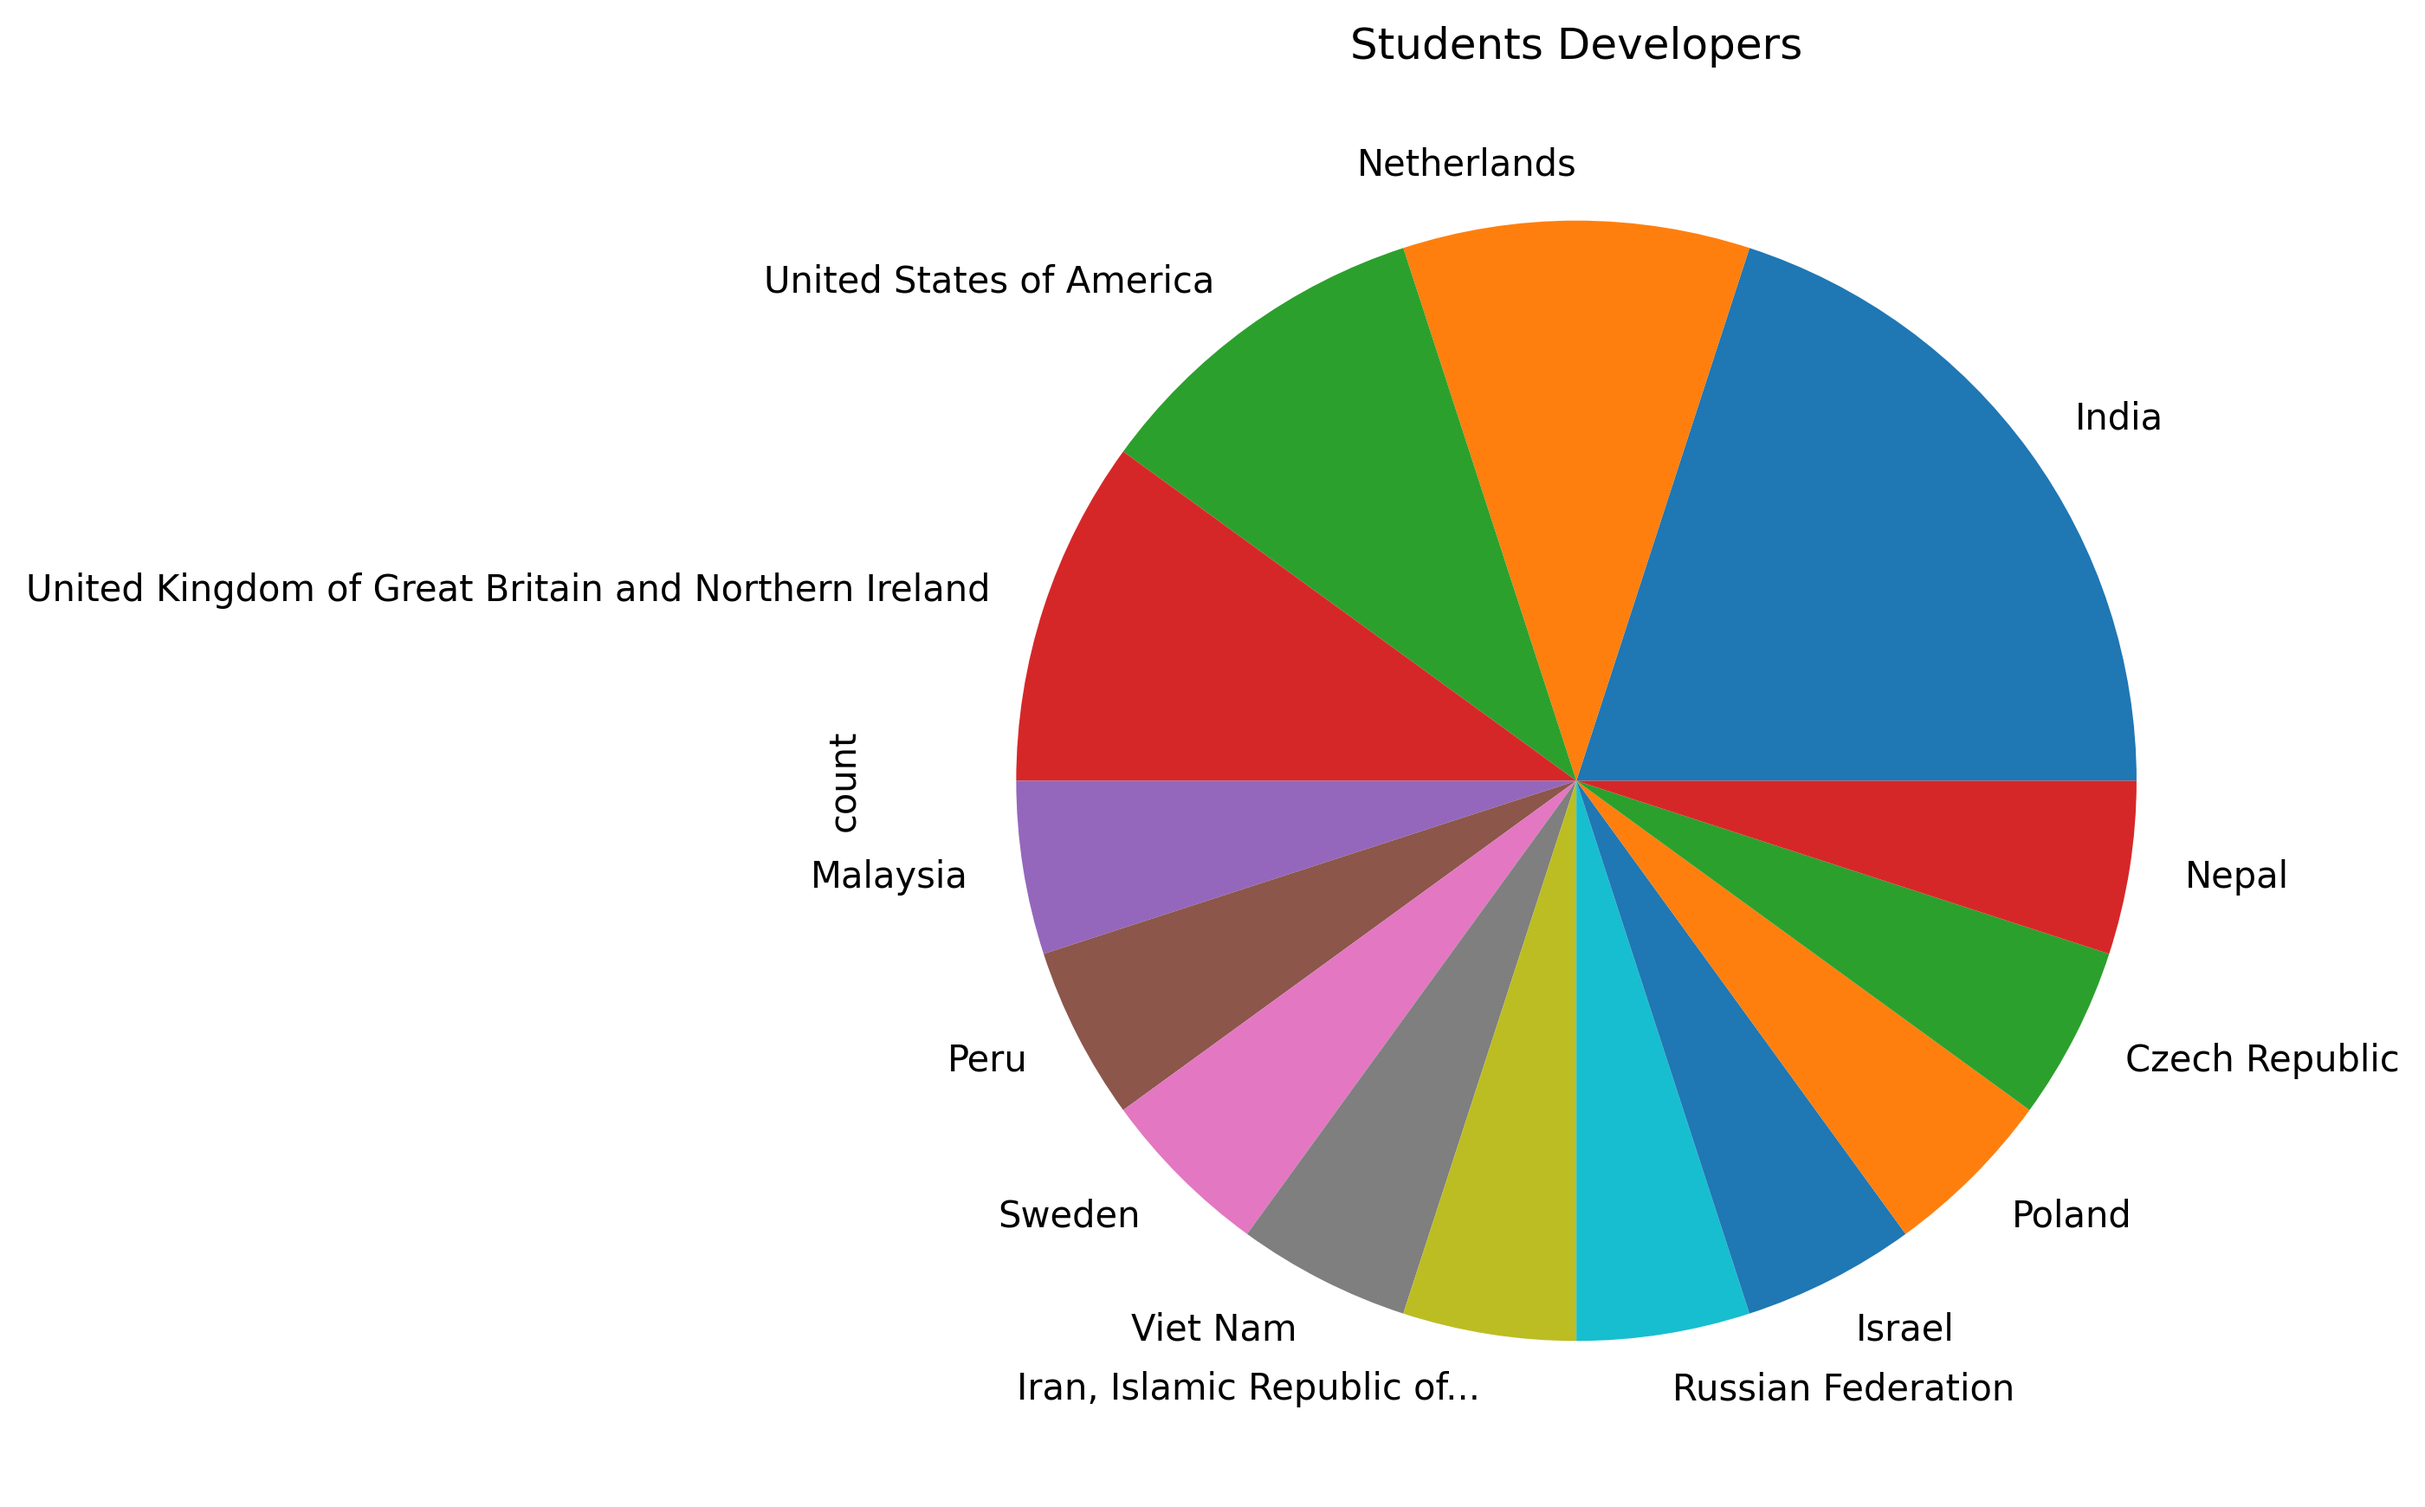
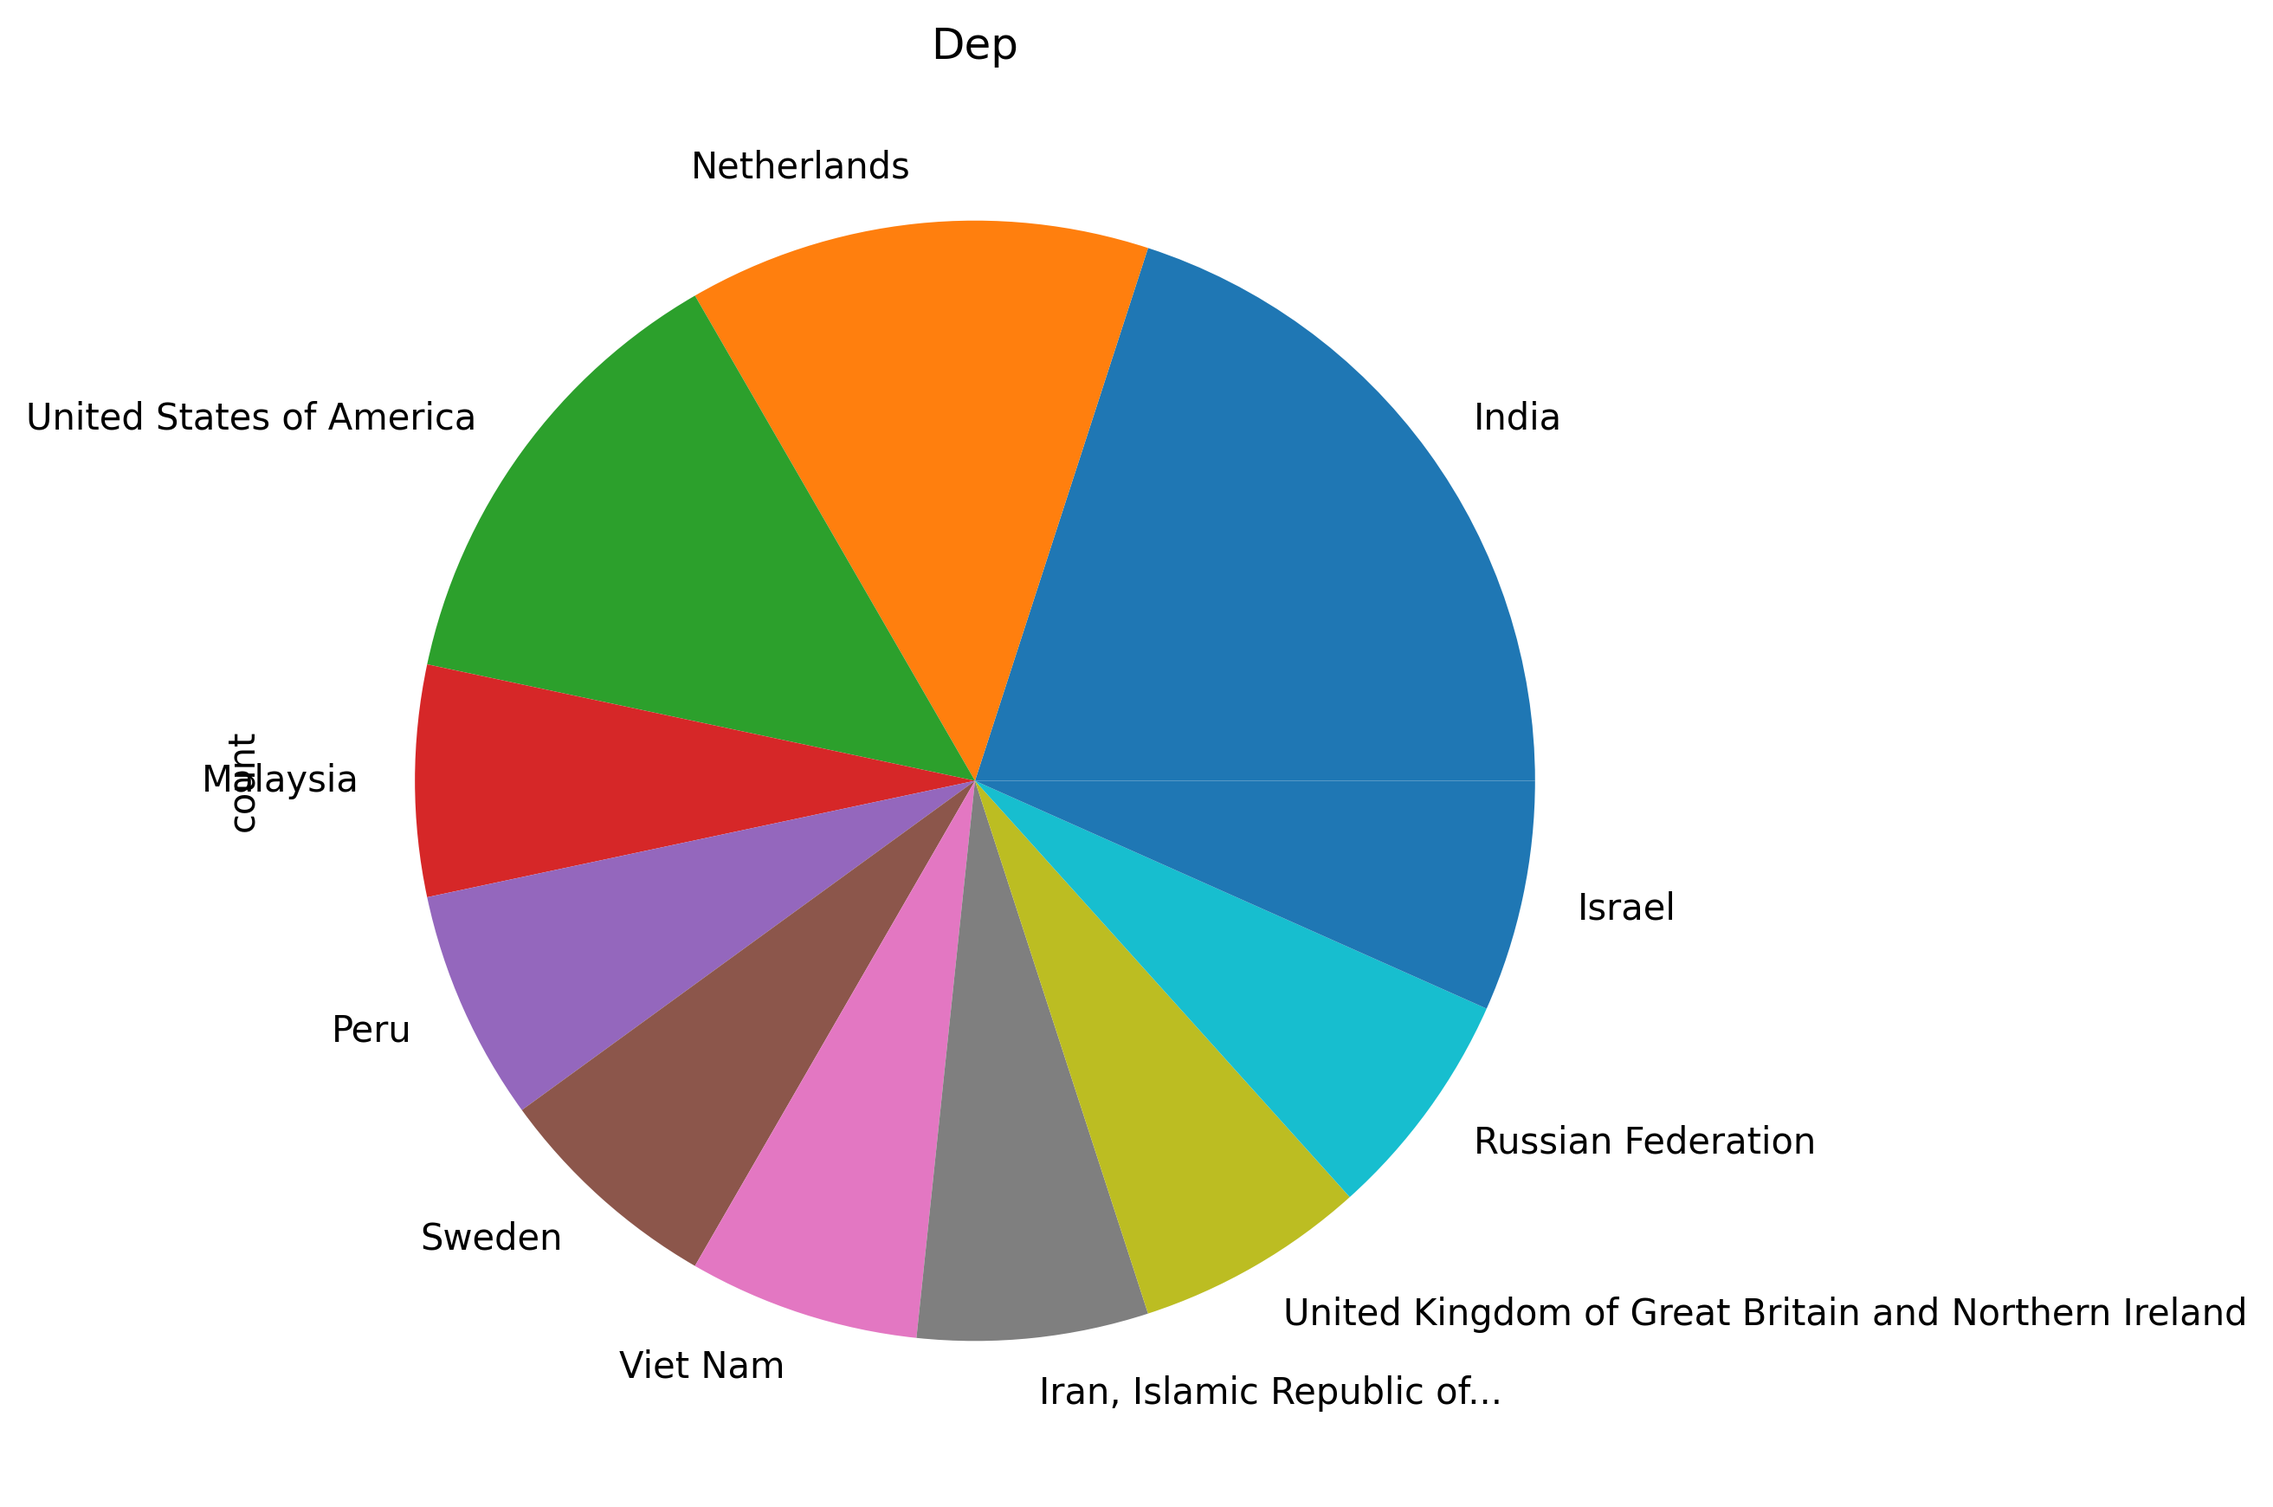
Analyse age group - hobby coders, add chart

diff --git a/run.py b/run.py
@@ -40,18 +40,31 @@ plt.clf()
 
 
 """
-Show from what countries most of the student developers 
-use Stack Overflow
+Show from which countries most of the student developers 
+on StackOverflow
 """
-country = df['Country']
-students = (country[(df['MainBranch'] == 'I am a student who is learning to code')]).head(20).value_counts().plot(kind='pie')
-plt.title('Students Developers')
+# country = df['Country']
+# students = (country[(df['MainBranch'] == 'I am a student who is learning to code')]).head(20).value_counts().plot(kind='pie')
+# plt.title('Students Developers')
+# img_students = plt.savefig('img_charts/students.png', dpi=300, bbox_inches='tight')
+# plt.clf()
+
+students = df[df['MainBranch'] == 'I am a student who is learning to code']
+country = students['Country'].head(15).value_counts().plot(kind='pie')
+plt.title('Dep')
 img_students = plt.savefig('img_charts/students.png', dpi=300, bbox_inches='tight')
 plt.clf()
 
+"""
+Show which age group code primarily as a hobby
+"""
 
-
-
+hobby_coders = df[df['MainBranch'] == 'I code primarily as a hobby']
+age_hobby = hobby_coders['Age'].value_counts()
+age_hobby.plot(kind='bar', xlabel='Age group', ylabel='Number of people coding as a hobby')
+plt.title('Hobby Coders')
+img_age_hobby = plt.savefig('img_charts/age_hobby.png', dpi=300, bbox_inches='tight')
+plt.clf()
 
 
 
